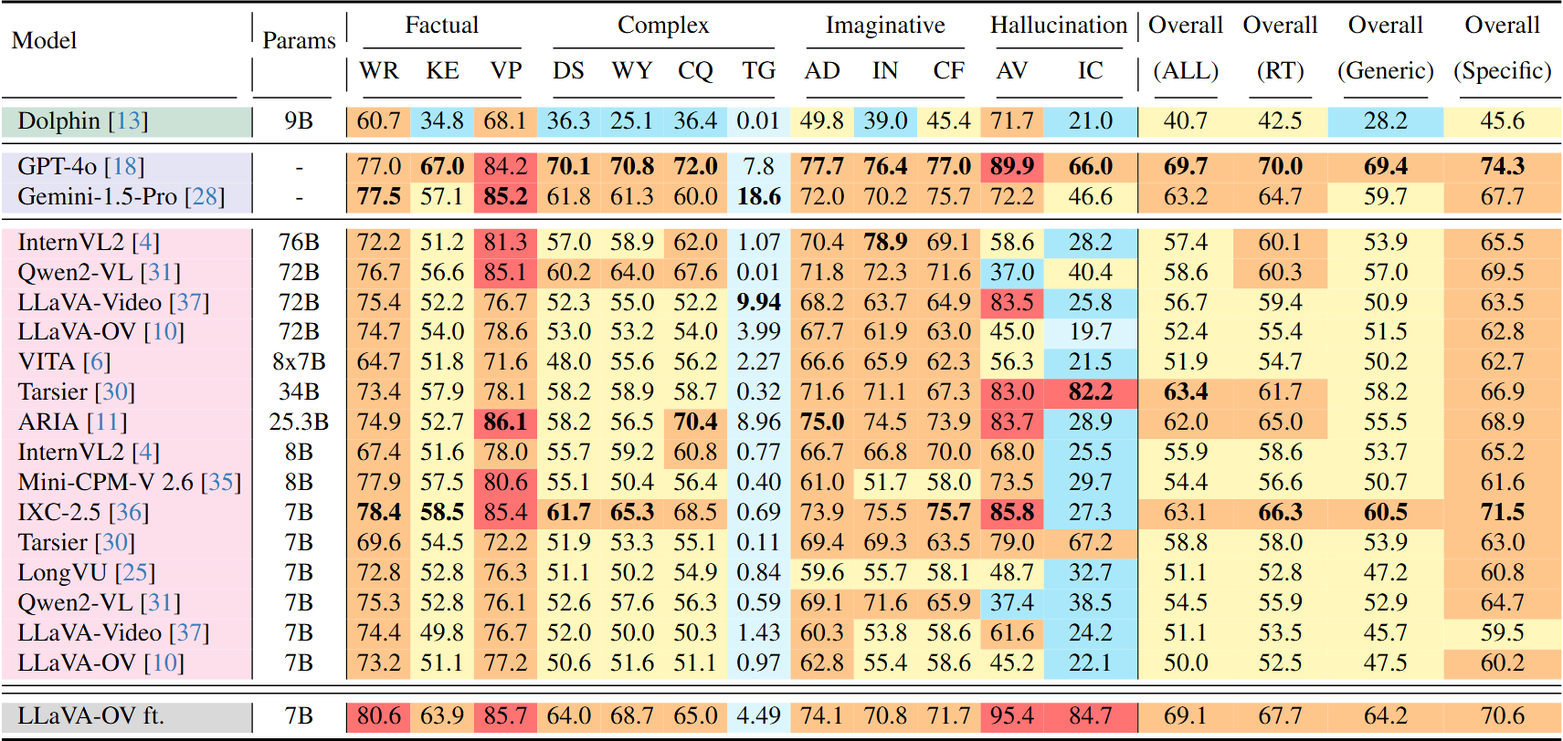
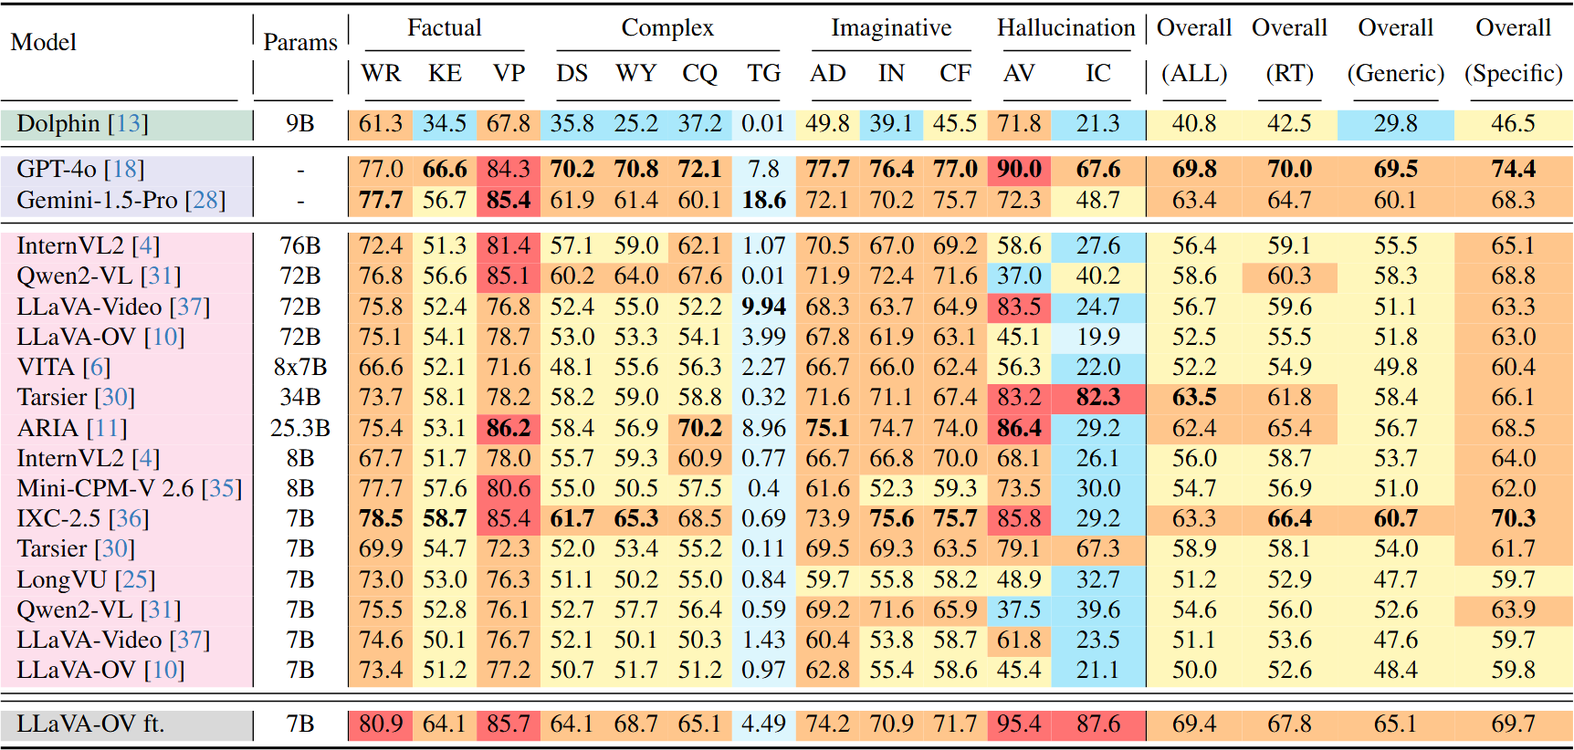
introduced new sections

Changed region(s): [[0.0, 0.0, 1.0, 1.0]]

diff --git a/index.html b/index.html
@@ -122,185 +122,144 @@
         </div>
     </section>
 
-<!-- for carousel -->
-<section class="section" style="background-color: #f0f0f0; width: 100%; padding-top: 25px; padding-bottom: 0px;">
-    <div class="container" style="margin-top: -20px; text-align: center;">
-        <div id="carousel-demo" class="carousel">
-            <div class="item-1"><img src="./static/images/1.jpg" alt="Image 1"></div>
-            <div class="item-2"><img src="./static/images/2.jpg" alt="Image 2"></div>
-            <div class="item-3"><img src="./static/images/3.jpg" alt="Image 3"></div>
-            <div class="item-3"><img src="./static/images/4.jpg" alt="Image 4"></div>
-            <div class="item-3"><img src="./static/images/5.jpg" alt="Image 5"></div>
-        </div>
-    </div>
-</section>
-
-<section class="section">
-  <div class="container is-max-desktop">
-    <!-- Abstract. -->
-    <div class="columns is-centered has-text-centered">
-      <div class="column is-four-fifths">
-        <h2 class="title is-3">Abstract</h2>
-        <div class="content has-text-justified">
-          <p>
-            We introduce <i>RoadSocial</i>, a large-scale, diverse VideoQA dataset tailored for generic road event understanding from social media narratives. Unlike existing datasets limited by regional bias, viewpoint bias and expert-driven annotations, RoadSocial captures the global complexity of road events with varied geographies, camera viewpoints (CCTV, handheld, drones) and rich social discourse.
-          </p>
-          <p>
-            Our scalable semi-automatic annotation framework leverages Text LLMs and Video LLMs to generate comprehensive question-answer pairs across 12 challenging QA tasks, pushing the boundaries of road event understanding.
-          </p>
-          <p>
-            RoadSocial is derived from social media videos spanning 14M frames and 414K social comments, resulting in a dataset with 13.2K videos, 674 tags and 260K high-quality QA pairs. We evaluate 18 Video LLMs (open-source and proprietary, driving-specific and general-purpose) on our road event understanding benchmark. We also demonstrate RoadSocial's utility in improving road event understanding capabilities of general-purpose Video LLMs.
-          </p>
-        </div>
-      </div>
-    </div>
-    <!--/ Abstract. -->
-    <!-- Paper video. -->
-    <div class="columns is-centered has-text-centered mt-5"> <!-- Added mt-5 for more top margin -->
-      <div class="column is-four-fifths">
-        <h2 class="title is-3">Video</h2>
-        <div class="publication-video">
-          <iframe src="https://www.youtube.com/embed/cB5kziXLDFg"
-                  frameborder="0" allow="autoplay; encrypted-media" allowfullscreen></iframe>
-        </div>
-      </div>
-    </div>
-    <!-- Paper video. -->
-
-<section class="section pt-3">  <!-- Added pt-3 to reduce top padding of section -->
-    <div class="container is-max-desktop">
-        <div class="columns is-centered">
-          <div class="column is-full-width">
-            <h2 class="title is-3 mt-5">Our Dataset</h2>
-    
-            <h3 class="title is-4">How RoadSocial Compares to Existing Video Datasets</h3>
-            <div class="content has-text-justified">
-              <p>
-                Existing video datasets capture road events through surrounding entity actions, traffic interactions, and safety-critical scenarios. However, many of these datasets are geographically constrained, limiting their ability to generalize across diverse traffic norms. To address this limitation, RoadSocial includes videos from diverse sources (e.g., drone, handheld, CCTV) alongside social discourse, ensuring a broader and more inclusive perspective on road events.
-              </p>
-              <p>
-                Unlike previous datasets that focus primarily on ego-centric tasks, RoadSocial introduces novel QA tasks designed to evaluate model robustness against hallucinations, diverse viewpoints, and geographical awareness. This enables a more comprehensive and generalizable understanding of road events.
-              </p>
+    <!-- for carousel -->
+    <section class="section" style="background-color: #f0f0f0; width: 100%; padding-top: 25px; padding-bottom: 0px;">
+        <div class="container" style="margin-top: -20px; text-align: center;">
+            <div id="carousel-demo" class="carousel">
+                <div class="item-1"><img src="./static/images/1.jpg" alt="Image 1"></div>
+                <div class="item-2"><img src="./static/images/2.jpg" alt="Image 2"></div>
+                <div class="item-3"><img src="./static/images/3.jpg" alt="Image 3"></div>
+                <div class="item-3"><img src="./static/images/4.jpg" alt="Image 4"></div>
+                <div class="item-3"><img src="./static/images/5.jpg" alt="Image 5"></div>
             </div>
-            <div class="content has-text-centered" style="padding: 0; margin: 0;"> <!-- Removed any default margins -->
-              <figure style="margin: 0; padding: 0; width: 100%;"> <!-- Added full width and removed margins -->
-                <img src="./static/images/roadSocial_comparison.png" 
-                    alt="RideSafe-400 Dataset showing various challenging scenarios of traffic violations"
-                    style="width: 100%; height: auto; display: block;" loading="lazy" />  <!-- Force full width -->
-                <figcaption style="margin-top: 1rem;">Comparison of RoadSocial with existing road event understanding datasets. TG: Temporal Grounding, AV: Adversarial, IC: Incompatible, Loc: Geographical Location. Internet-sourced videos do not contain LiDAR or CAN bus data. <p><span style="color: orange;">Orange</span>: Additional annotations added to existing datasets. <span style="color: blue;">Blue</span>: New datasets.</p></figcaption>
-              </figure>
-            </div>
+        </div>
+    </section>
 
-            <!-- References spanning both columns -->
-            <div class="columns is-centered mt-0"> <!-- Changed to mt-2 -->
-                <div class="column is-full pt-0">
-                <div class="content has-text-justified">
-                    <p class="mt-0"> <!-- Added mt-0 to remove any top margin from paragraph -->
-                    References: Goyal <i>et al.</i> <a href="https://arxiv.org/abs/2204.08364">[21]</a>; Cui <i>et al.</i> <a href="https://openaccess.thecvf.com/content/CVPR2023W/AICity/papers/Cui_An_Effective_Motorcycle_Helmet_Object_Detection_Framework_for_Intelligent_Traffic_CVPRW_2023_paper.pdf">[16]</a>; YOLOv8-x <a href="https://docs.ultralytics.com/models/yolov8/">[28]</a>; ByteTrack <a href="https://arxiv.org/abs/2110.06864">[62]</a>; DeepOCSORT <a href="https://arxiv.org/abs/2302.11813">[37]</a>; BotSORT <a href="https://arxiv.org/abs/2206.14651">[4]</a>; HybridSORT <a href="https://arxiv.org/html/2308.00783">[59]</a>.
-                    </p>
+    <section class="section">
+        <div class="container is-max-desktop">
+            <!-- Abstract. -->
+            <div class="columns is-centered has-text-centered">
+                <div class="column is-four-fifths">
+                    <h2 class="title is-3">Abstract</h2>
+                    <div class="content has-text-justified">
+                        <p>
+                            We introduce <i>RoadSocial</i>, a large-scale, diverse VideoQA dataset tailored for generic road event understanding from social media narratives. Unlike existing datasets limited by regional bias, viewpoint bias and expert-driven annotations, RoadSocial captures the global complexity of road events with varied geographies, camera viewpoints (CCTV, handheld, drones) and rich social discourse.
+                        </p>
+                        <p>
+                            Our scalable semi-automatic annotation framework leverages Text LLMs and Video LLMs to generate comprehensive question-answer pairs across 12 challenging QA tasks, pushing the boundaries of road event understanding.
+                        </p>
+                        <p>
+                            RoadSocial is derived from social media videos spanning 14M frames and 414K social comments, resulting in a dataset with 13.2K videos, 674 tags and 260K high-quality QA pairs. We evaluate 18 Video LLMs (open-source and proprietary, driving-specific and general-purpose) on our road event understanding benchmark. We also demonstrate RoadSocial's utility in improving road event understanding capabilities of general-purpose Video LLMs.
+                        </p>
+                    </div>
                 </div>
+            </div>
+            <!-- Paper video. -->
+            <div class="columns is-centered has-text-centered mt-5"> <!-- Added mt-5 for more top margin -->
+                <div class="column is-four-fifths">
+                    <h2 class="title is-3">Video</h2>
+                    <div class="publication-video">
+                        <iframe src="https://www.youtube.com/embed/cB5kziXLDFg" frameborder="0" allow="autoplay; encrypted-media" allowfullscreen></iframe>
+                    </div>
+                </div>
+            </div>
+        </div>
+    </section>
+
+    <section class="section pt-3">  <!-- Added pt-3 to reduce top padding of section -->
+        <div class="container is-max-desktop">
+            <div class="columns is-centered">
+                <div class="column is-full-width">
+                    <h2 class="title is-3 mt-5">Our Dataset</h2>
+                    <h3 class="title is-4">How RoadSocial Compares to Existing Video Datasets</h3>
+                    <div class="content has-text-justified">
+                        <p>
+                            Existing video datasets capture road events through surrounding entity actions, traffic interactions, and safety-critical scenarios. However, many of these datasets are geographically constrained, limiting their ability to generalize across diverse traffic norms. To address this limitation, RoadSocial includes videos from diverse sources (e.g., drone, handheld, CCTV) alongside social discourse, ensuring a broader and more inclusive perspective on road events.
+                        </p>
+                        <p>
+                            Unlike previous datasets that focus primarily on ego-centric tasks, RoadSocial introduces novel QA tasks designed to evaluate model robustness against hallucinations, diverse viewpoints, and geographical awareness. This enables a more comprehensive and generalizable understanding of road events.
+                        </p>
+                    </div>
+                    <div class="content has-text-centered" style="padding: 0; margin: 0;"> <!-- Removed any default margins -->
+                        <figure style="margin: 0; padding: 0; width: 100%;"> <!-- Added full width and removed margins -->
+                            <img src="./static/images/roadSocial_comparison.png" alt="Comparison of RoadSocial with existing Datasets" style="width: 100%; height: auto; display: block;" loading="lazy" />  <!-- Force full width -->
+                            <figcaption style="margin-top: 1rem;">Comparison of RoadSocial with existing road event understanding datasets. TG: Temporal Grounding, AV: Adversarial, IC: Incompatible, Loc: Geographical Location. Internet-sourced videos do not contain LiDAR or CAN bus data. <p><span style="color: orange;">Orange</span>: Additional annotations added to existing datasets. <span style="color: blue;">Blue</span>: New datasets.</p></figcaption>
+                        </figure>
+                    </div>
                 </div>
             </div>
 
-            <h3 class="title is-4">How RoadSocial Compares to Existing Video Datasets</h3>
-            <div class="content has-text-justified">
-              <p>
-                Existing video datasets capture road events through surrounding entity actions, traffic interactions, and safety-critical scenarios. However, many of these datasets are geographically constrained, limiting their ability to generalize across diverse traffic norms. To address this limitation, RoadSocial includes videos from diverse sources (e.g., drone, handheld, CCTV) alongside social discourse, ensuring a broader and more inclusive perspective on road events.
-              </p>
-              <p>
-                Unlike previous datasets that focus primarily on ego-centric tasks, RoadSocial introduces novel QA tasks designed to evaluate model robustness against hallucinations, diverse viewpoints, and geographical awareness. This enables a more comprehensive and generalizable understanding of road events.
-              </p>
+            <div class="columns is-centered">
+                <div class="column is-full-width">
+                    <h3 class="title is-4">Benchmarking Video LLMs on RoadSocial-QA</h3>
+                    <div class="content has-text-justified">
+                        <p>
+                            Our evaluation of Video LLMs on RoadSocial-QA highlights key trends in road event understanding. Tarsier-34B leads in overall performance, while IXC-2.5-7B excels in road-event-specific tasks. General-purpose models consistently outperform driving-specific ones, indicating room for improvement in domain-specific adaptations.
+                        </p>
+                        <p>
+                            Challenges & Insights: Models struggle with complex reasoning (Why, Consequence, Temporal Grounding) and hallucination, particularly in mismatched QAs. Fine-tuning LLaVA-OV-7B on RoadSocial boosts its performance by 19.1%, underscoring the dataset’s impact in enhancing general-purpose Video LLMs for real-world driving scenarios.
+                        </p>
+                    </div>
+                    <div class="content has-text-centered" style="padding: 0; margin: 0;"> <!-- Removed any default margins -->
+                        <figure style="margin: 0; padding: 0; width: 100%;"> <!-- Added full width and removed margins -->
+                            <img src="./static/images/VLM_benchmark.png" 
+                                alt="Video LLMs are benchmarked on RoadSocial-QA"
+                                style="width: 100%; height: auto; display: block;" loading="lazy" />  <!-- Force full width -->
+                            <figcaption style="margin-top: 1rem;">
+                                <p>
+                                    Evaluation of Video LLMs on 12 QA tasks highlights performance trends across open-source (<span style="background-color: #cce2d7; padding: 2px;">driving-specific</span> and <span style="background-color: #fddfec; padding: 2px;">general-purpose</span>), <span style="background-color: #f0eeff; padding: 2px;">closed-source</span>, and <span style="background-color: #d9d9d9; padding: 2px;">fine-tuned</span> models. 
+                                    Key reasoning categories include <span style="font-weight: bold;">Factual</span> - Where <span style="color: #00000061; padding: 2px;">(WR)</span>, Key Entities <span style="color: #00000061; padding: 2px;">(KE)</span>, Viewpoint <span style="color: #00000061; padding: 2px;">(VP)</span>, <span style="font-weight: bold;">Complex</span> - Description <span style="color: #00000061; padding: 2px;">(DS)</span>, Why <span style="color: #00000061; padding: 2px;">(WY)</span>, Consequence <span style="color: #00000061; padding: 2px;">(CQ)</span>, Temporal Grounding <span style="color: #00000061; padding: 2px;">(TG)</span>, <span style="font-weight: bold;">Imaginative</span> - Advisory <span style="color: #00000061; padding: 2px;">(AD)</span>, Introspection <span style="color: #00000061; padding: 2px;">(IN)</span>, Counterfactual <span style="color: #00000061; padding: 2px;">(CF)</span>, and <span style="font-weight: bold;">Hallucination</span> - Adversarial <span style="color: #00000061; padding: 2px;">(AV)</span>, Incompatible <span style="color: #00000061; padding: 2px;">(IC)</span> tasks.
+                                    GPT-3.5 scores are reported for most tasks, while mAP@.3:.7% is used for Temporal Grounding. Overall and category-wise averages are provided, with scores (scale 0 to 100) color-coded from <span style="background-color: #ddf6fd; padding: 2px;">low</span> to <span style="background-color: #ff7373; padding: 2px;">high</span>
+                                </p>    
+                            </figcaption>
+                        </figure>
+                    </div>
+                    <!-- References spanning both columns -->
+                    <div class="columns is-centered mt-4"> <!-- Changed to mt-2 -->
+                        <div class="column is-full pt-0">
+                            <div class="content has-text-justified">
+                                <p class="mt-0"> <!-- Added mt-0 to remove any top margin from paragraph -->
+                                    References: InternVL2 <a href="https://arxiv.org/abs/2312.14238">[4]</a>; MM-AU <a href="https://openaccess.thecvf.com/content/CVPR2024/papers/Fang_Abductive_Ego-View_Accident_Video_Understanding_for_Safe_Driving_Perception_CVPR_2024_paper.pdf">[5]</a>; VITA <a href="https://arxiv.org/abs/2408.05211">[6]</a>; BDD-X <a href="https://arxiv.org/abs/1807.11546">[8]</a>; LLaVA-OV <a href="https://arxiv.org/abs/2408.03326">[10]</a>; ARIA <a href="https://arxiv.org/html/2410.05993v1">[11]</a>; Dolphin <a href="https://arxiv.org/abs/2312.00438">[13]</a>; DRAMA <a href="https://openaccess.thecvf.com/content/WACV2023/html/Malla_DRAMA_Joint_Risk_Localization_and_Captioning_in_Driving_WACV_2023_paper.html">[15]</a>; LingoQA <a href="https://arxiv.org/abs/2312.14115">[16]</a>; GPT-4o <a href="https://openai.com/index/hello-gpt-4o/">[18]</a>; Rank2Tell <a href="https://openaccess.thecvf.com/content/WACV2024/papers/Sachdeva_Rank2Tell_A_Multimodal_Driving_Dataset_for_Joint_Importance_Ranking_and_WACV_2024_paper.pdf">[24]</a>; LongVU <a href="https://arxiv.org/abs/2410.17434">[25]</a>; DriveLM <a href="https://arxiv.org/abs/2312.14150">[26]</a>; ROAD <a href="https://ieeexplore.ieee.org/document/9712346">[27]</a>; Gemini-1.5-Pro <a href="https://arxiv.org/abs/2312.11805">[28]</a>; Tarsier <a href="https://arxiv.org/abs/2407.00634">[30]</a>; Qwen2-VL <a href="https://arxiv.org/html/2409.12191v1">[31]</a>; SUTD-TrafficQA <a href="https://arxiv.org/abs/2103.15538">[32]</a>; BDD-OIA <a href="https://openaccess.thecvf.com/content_CVPR_2020/papers/Xu_Explainable_Object-Induced_Action_Decision_for_Autonomous_Vehicles_CVPR_2020_paper.pdf">[33]</a>; Mini-CPM-V <a href="https://arxiv.org/abs/2408.01800">[35]</a>; IXC-2.5 <a href="https://arxiv.org/html/2407.03320v1">[36]</a>; LLaVA-Video <a href="https://arxiv.org/abs/2410.02713">[37]</a>
+                                </p>
+                            </div>
+                        </div>
+                    </div>
+                </div>
             </div>
-            <div class="content has-text-centered" style="padding: 0; margin: 0;"> <!-- Removed any default margins -->
-              <figure style="margin: 0; padding: 0; width: 100%;"> <!-- Added full width and removed margins -->
-                <img src="./static/images/VLM_benchmark.png" 
-                    alt="RideSafe-400 Dataset showing various challenging scenarios of traffic violations"
-                    style="width: 100%; height: auto; display: block;" loading="lazy" />  <!-- Force full width -->
-                <figcaption style="margin-top: 1rem;">Comparison of RoadSocial with existing road event understanding datasets. TG: Temporal Grounding, AV: Adversarial, IC: Incompatible, Loc: Geographical Location. Internet-sourced videos do not contain LiDAR or CAN bus data. <p><span style="color: orange;">Orange</span>: Additional annotations added to existing datasets. <span style="color: blue;">Blue</span>: New datasets.</p></figcaption>
-              </figure>
+        </div>
+    </section>
+
+    <footer class="footer">
+        <div class="container">
+            <div class="content has-text-centered">
+                <a class="icon-link" href="#">
+                    <svg class="svg-inline--fa fa-file-pdf fa-w-12" aria-hidden="true" focusable="false" data-prefix="fas" data-icon="file-pdf" role="img" xmlns="http://www.w3.org/2000/svg" viewBox="0 0 384 512" data-fa-i2svg=""><path fill="currentColor" d="M181.9 256.1c-5-16-4.9-46.9-2-46.9 8.4 0 7.6 36.9 2 46.9zm-1.7 47.2c-7.7 20.2-17.3 43.3-28.4 62.7 18.3-7 39-17.2 62.9-21.9-12.7-9.6-24.9-23.4-34.5-40.8zM86.1 428.1c0 .8 13.2-5.4 34.9-40.2-6.7 6.3-29.1 24.5-34.9 40.2zM248 160h136v328c0 13.3-10.7 24-24 24H24c-13.3 0-24-10.7-24-24V24C0 10.7 10.7 0 24 0h200v136c0 13.2 10.8 24 24 24zm-8 171.8c-20-12.2-33.3-29-42.7-53.8 4.5-18.5 11.6-46.6 6.2-64.2-4.7-29.4-42.4-26.5-47.8-6.8-5 18.3-.4 44.1 8.1 77-11.6 27.6-28.7 64.6-40.8 85.8-.1 0-.1.1-.2.1-27.1 13.9-73.6 44.5-54.5 68 5.6 6.9 16 10 21.5 10 17.9 0 35.7-18 61.1-61.8 25.8-8.5 54.1-19.1 79-23.2 21.7 11.8 47.1 19.5 64 19.5 29.2 0 31.2-32 19.7-43.4-13.9-13.6-54.3-9.7-73.6-7.2zM377 105L279 7c-4.5-4.5-10.6-7-17-7h-6v128h128v-6.1c0-6.3-2.5-12.4-7-16.9zm-74.1 255.3c4.1-2.7-2.5-11.9-42.8-9 37.1 15.8 42.8 9 42.8 9z"></path></svg><!-- <i class="fas fa-file-pdf"></i> Font Awesome fontawesome.com -->
+                </a>
+                <a class="icon-link" href="https://github.com/roadsocial/roadsocial.github.io/tree/main" disabled="">
+                    <svg class="svg-inline--fa fa-github fa-w-16" aria-hidden="true" focusable="false" data-prefix="fab" data-icon="github" role="img" xmlns="http://www.w3.org/2000/svg" viewBox="0 0 496 512" data-fa-i2svg=""><path fill="currentColor" d="M165.9 397.4c0 2-2.3 3.6-5.2 3.6-3.3.3-5.6-1.3-5.6-3.6 0-2 2.3-3.6 5.2-3.6 3-.3 5.6 1.3 5.6 3.6zm-31.1-4.5c-.7 2 1.3 4.3 4.3 4.9 2.6 1 5.6 0 6.2-2s-1.3-4.3-4.3-5.2c-2.6-.7-5.5.3-6.2 2.3zm44.2-1.7c-2.9.7-4.9 2.6-4.6 4.9.3 2 2.9 3.3 5.9 2.6 2.9-.7 4.9-2.6 4.6-4.6-.3-1.9-3-3.2-5.9-2.9zM244.8 8C106.1 8 0 113.3 0 252c0 110.9 69.8 205.8 169.5 239.2 12.8 2.3 17.3-5.6 17.3-12.1 0-6.2-.3-40.4-.3-61.4 0 0-70 15-84.7-29.8 0 0-11.4-29.1-27.8-36.6 0 0-22.9-15.7 1.6-15.4 0 0 24.9 2 38.6 25.8 21.9 38.6 58.6 27.5 72.9 20.9 2.3-16 8.8-27.1 16-33.7-55.9-6.2-112.3-14.3-112.3-110.5 0-27.5 7.6-41.3 23.6-58.9-2.6-6.5-11.1-33.3 2.6-67.9 20.9-6.5 69 27 69 27 20-5.6 41.5-8.5 62.8-8.5s42.8 2.9 62.8 8.5c0 0 48.1-33.6 69-27 13.7 34.7 5.2 61.4 2.6 67.9 16 17.7 25.8 31.5 25.8 58.9 0 96.5-58.9 104.2-114.8 110.5 9.2 7.9 17 22.9 17 46.4 0 33.7-.3 75.4-.3 83.6 0 6.5 4.6 14.4 17.3 12.1C428.2 457.8 496 362.9 496 252 496 113.3 383.5 8 244.8 8zM97.2 352.9c-1.3 1-1 3.3.7 5.2 1.6 1.6 3.9 2.3 5.2 1 1.3-1 1-3.3-.7-5.2-1.6-1.6-3.9-2.3-5.2-1zm-10.8-8.1c-.7 1.3.3 2.9 2.3 3.9 1.6 1 3.6.7 4.3-.7.7-1.3-.3-2.9-2.3-3.9-2-.6-3.6-.3-4.3.7zm32.4 35.6c-1.6 1.3-1 4.3 1.3 6.2 2.3 2.3 5.2 2.6 6.5 1 1.3-1.3.7-4.3-1.3-6.2-2.2-2.3-5.2-2.6-6.5-1zm-11.4-14.7c-1.6 1-1.6 3.6 0 5.9 1.6 2.3 4.3 3.3 5.6 2.3 1.6-1.3 1.6-3.9 0-6.2-1.4-2.3-4-3.3-5.6-2z"></path></svg><!-- <i class="fab fa-github"></i> Font Awesome fontawesome.com -->
+                </a>
             </div>
-          </div>
+            <div class="columns is-centered">
+                <div class="column is-8">
+                    <div class="content"><p>This website was adapted from <a href="https://github.com/nerfies/nerfies.github.io">Nerfies</a> and is licensed under a <a rel="license" href="http://creativecommons.org/licenses/by-sa/4.0/">Creative Commons Attribution-ShareAlike 4.0 International License</a>.</p></div>
+                </div>
+            </div>
         </div>
-    <br/>
+    </footer>
 
-    <!-- Concurrent Work. -->
-    <div class="columns is-centered">
-      <div class="column is-full-width">
-        <h2 class="title is-3">Download the Dataset</h2>
-
-        <div class="content has-text-justified">
-          <p>
-            Coming Soon!
-          </p>
-        </div>
-      </div>
-    </div>
-    <!--/ Concurrent Work. -->
-
-  </div>
-</section>
-
-<section class="section" id="BibTeX">
-  <div class="container is-max-desktop content">
-    <h2 class="title">BibTeX</h2>
-    <pre>
-      <code>
-        @InProceedings{Rawat_2025_WACV,
-          author    = {Rawat, Deepti and Gupta, Keshav and Roy, Aryamaan Basu and Sarvadevabhatla, Ravi Kiran},
-          title     = {DashCop: Automated E-Ticket Generation for Two-Wheeler Traffic Violations using Dashcam Videos},
-          booktitle = {Proceedings of the Winter Conference on Applications of Computer Vision (WACV)},
-          month     = {February},
-          year      = {2025},
-          pages     = {5387-5397}
-      }
-      </code>
-    </pre>
-  </div>
-</section>
-
-<section class="section" id="BibTeX">
-  <div class="container is-max-desktop content">
-    <h2 class="title">Reach out at</h2>
-    <pre><code>deepti.rawat@research.iiit.ac.in</code></pre>
-  </div>
-</section>
-
-
-<footer class="footer">
-  <div class="container">
-    <div class="content has-text-centered">
-      <a class="icon-link" href="https://openaccess.thecvf.com/content/WACV2025/html/Rawat_DashCop_Automated_E-Ticket_Generation_for_Two-Wheeler_Traffic_Violations_using_Dashcam_WACV_2025_paper.html">
-        <svg class="svg-inline--fa fa-file-pdf fa-w-12" aria-hidden="true" focusable="false" data-prefix="fas" data-icon="file-pdf" role="img" xmlns="http://www.w3.org/2000/svg" viewBox="0 0 384 512" data-fa-i2svg=""><path fill="currentColor" d="M181.9 256.1c-5-16-4.9-46.9-2-46.9 8.4 0 7.6 36.9 2 46.9zm-1.7 47.2c-7.7 20.2-17.3 43.3-28.4 62.7 18.3-7 39-17.2 62.9-21.9-12.7-9.6-24.9-23.4-34.5-40.8zM86.1 428.1c0 .8 13.2-5.4 34.9-40.2-6.7 6.3-29.1 24.5-34.9 40.2zM248 160h136v328c0 13.3-10.7 24-24 24H24c-13.3 0-24-10.7-24-24V24C0 10.7 10.7 0 24 0h200v136c0 13.2 10.8 24 24 24zm-8 171.8c-20-12.2-33.3-29-42.7-53.8 4.5-18.5 11.6-46.6 6.2-64.2-4.7-29.4-42.4-26.5-47.8-6.8-5 18.3-.4 44.1 8.1 77-11.6 27.6-28.7 64.6-40.8 85.8-.1 0-.1.1-.2.1-27.1 13.9-73.6 44.5-54.5 68 5.6 6.9 16 10 21.5 10 17.9 0 35.7-18 61.1-61.8 25.8-8.5 54.1-19.1 79-23.2 21.7 11.8 47.1 19.5 64 19.5 29.2 0 31.2-32 19.7-43.4-13.9-13.6-54.3-9.7-73.6-7.2zM377 105L279 7c-4.5-4.5-10.6-7-17-7h-6v128h128v-6.1c0-6.3-2.5-12.4-7-16.9zm-74.1 255.3c4.1-2.7-2.5-11.9-42.8-9 37.1 15.8 42.8 9 42.8 9z"></path></svg><!-- <i class="fas fa-file-pdf"></i> Font Awesome fontawesome.com -->
-      </a>
-      <a class="icon-link" href="https://github.com/dpt-xyz" disabled="">
-        <svg class="svg-inline--fa fa-github fa-w-16" aria-hidden="true" focusable="false" data-prefix="fab" data-icon="github" role="img" xmlns="http://www.w3.org/2000/svg" viewBox="0 0 496 512" data-fa-i2svg=""><path fill="currentColor" d="M165.9 397.4c0 2-2.3 3.6-5.2 3.6-3.3.3-5.6-1.3-5.6-3.6 0-2 2.3-3.6 5.2-3.6 3-.3 5.6 1.3 5.6 3.6zm-31.1-4.5c-.7 2 1.3 4.3 4.3 4.9 2.6 1 5.6 0 6.2-2s-1.3-4.3-4.3-5.2c-2.6-.7-5.5.3-6.2 2.3zm44.2-1.7c-2.9.7-4.9 2.6-4.6 4.9.3 2 2.9 3.3 5.9 2.6 2.9-.7 4.9-2.6 4.6-4.6-.3-1.9-3-3.2-5.9-2.9zM244.8 8C106.1 8 0 113.3 0 252c0 110.9 69.8 205.8 169.5 239.2 12.8 2.3 17.3-5.6 17.3-12.1 0-6.2-.3-40.4-.3-61.4 0 0-70 15-84.7-29.8 0 0-11.4-29.1-27.8-36.6 0 0-22.9-15.7 1.6-15.4 0 0 24.9 2 38.6 25.8 21.9 38.6 58.6 27.5 72.9 20.9 2.3-16 8.8-27.1 16-33.7-55.9-6.2-112.3-14.3-112.3-110.5 0-27.5 7.6-41.3 23.6-58.9-2.6-6.5-11.1-33.3 2.6-67.9 20.9-6.5 69 27 69 27 20-5.6 41.5-8.5 62.8-8.5s42.8 2.9 62.8 8.5c0 0 48.1-33.6 69-27 13.7 34.7 5.2 61.4 2.6 67.9 16 17.7 25.8 31.5 25.8 58.9 0 96.5-58.9 104.2-114.8 110.5 9.2 7.9 17 22.9 17 46.4 0 33.7-.3 75.4-.3 83.6 0 6.5 4.6 14.4 17.3 12.1C428.2 457.8 496 362.9 496 252 496 113.3 383.5 8 244.8 8zM97.2 352.9c-1.3 1-1 3.3.7 5.2 1.6 1.6 3.9 2.3 5.2 1 1.3-1 1-3.3-.7-5.2-1.6-1.6-3.9-2.3-5.2-1zm-10.8-8.1c-.7 1.3.3 2.9 2.3 3.9 1.6 1 3.6.7 4.3-.7.7-1.3-.3-2.9-2.3-3.9-2-.6-3.6-.3-4.3.7zm32.4 35.6c-1.6 1.3-1 4.3 1.3 6.2 2.3 2.3 5.2 2.6 6.5 1 1.3-1.3.7-4.3-1.3-6.2-2.2-2.3-5.2-2.6-6.5-1zm-11.4-14.7c-1.6 1-1.6 3.6 0 5.9 1.6 2.3 4.3 3.3 5.6 2.3 1.6-1.3 1.6-3.9 0-6.2-1.4-2.3-4-3.3-5.6-2z"></path></svg><!-- <i class="fab fa-github"></i> Font Awesome fontawesome.com -->
-      </a>
-    </div>
-    <div class="columns is-centered">
-      <div class="column is-8">
-        <div class="content">
-          <p>
-            This website was adapted from <a href="https://github.com/nerfies/nerfies.github.io">Nerfies</a> and is licensed under a <a rel="license" href="http://creativecommons.org/licenses/by-sa/4.0/">Creative Commons Attribution-ShareAlike 4.0 International License</a>.
-          </p>
-        </div>
-      </div>
-    </div>
-  </div>
-</footer>
-
-<!-- for carousel -->
-<script src="https://cdn.jsdelivr.net/npm/bulma-carousel/dist/js/bulma-carousel.min.js"></script>
-<script>
-    document.addEventListener('DOMContentLoaded', function () {
-        bulmaCarousel.attach('#carousel-demo', {
-            slidesToScroll: 1,
-            slidesToShow: 1,
-            autoplay: true,
-            autoplaySpeed: 3000,
-            infinite: true
+    <!-- for carousel -->
+    <script src="https://cdn.jsdelivr.net/npm/bulma-carousel/dist/js/bulma-carousel.min.js"></script>
+    <script>
+        document.addEventListener('DOMContentLoaded', function () {
+            bulmaCarousel.attach('#carousel-demo', {
+                slidesToScroll: 1,
+                slidesToShow: 1,
+                autoplay: true,
+                autoplaySpeed: 3000,
+                infinite: true
+            });
         });
-    });
-</script>
+    </script>
 
 </body>
 </html>
